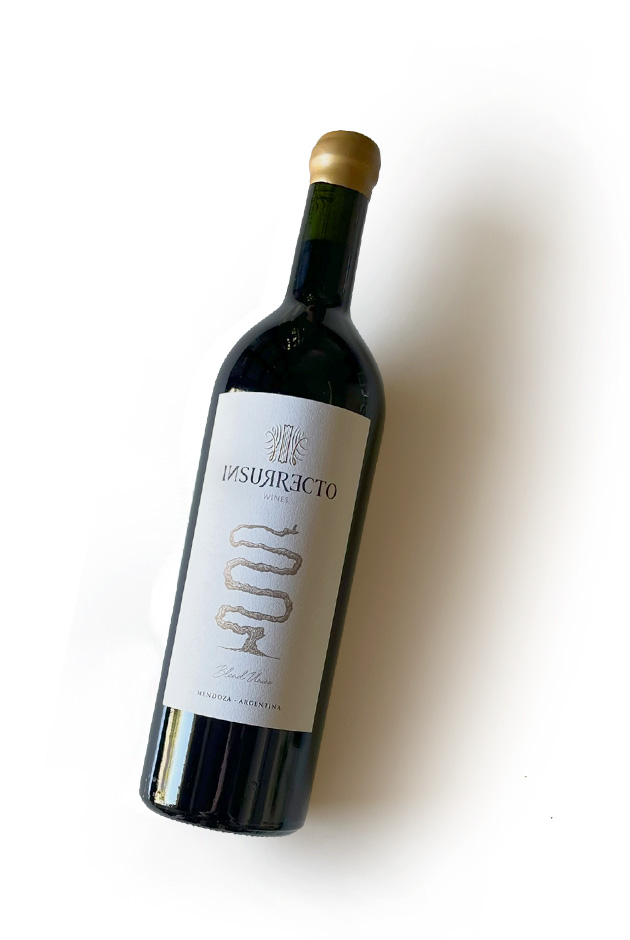
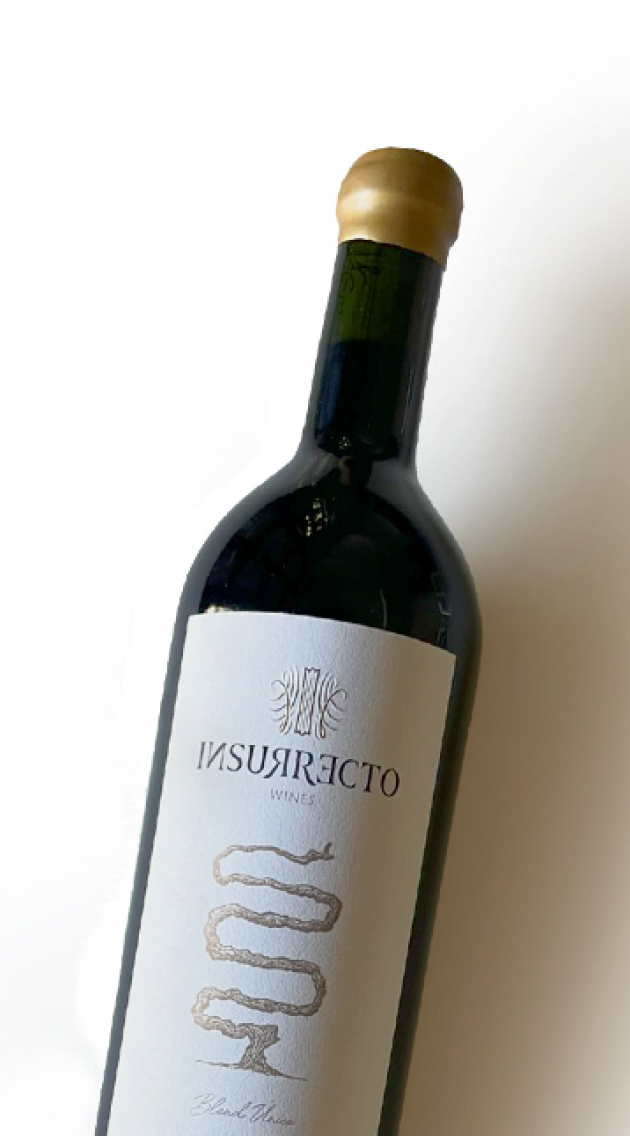
bottle

diff --git a/insurrecto/static/css/styles.css b/insurrecto/static/css/styles.css
@@ -999,7 +999,7 @@ footer {
     .wine-details .wine-bottle {
         float: left;
         width: 33%;
-        height: 570px;
+        height: 730px;
         background-repeat: no-repeat;
         background-size: 100%;
         background-position: center bottom;
